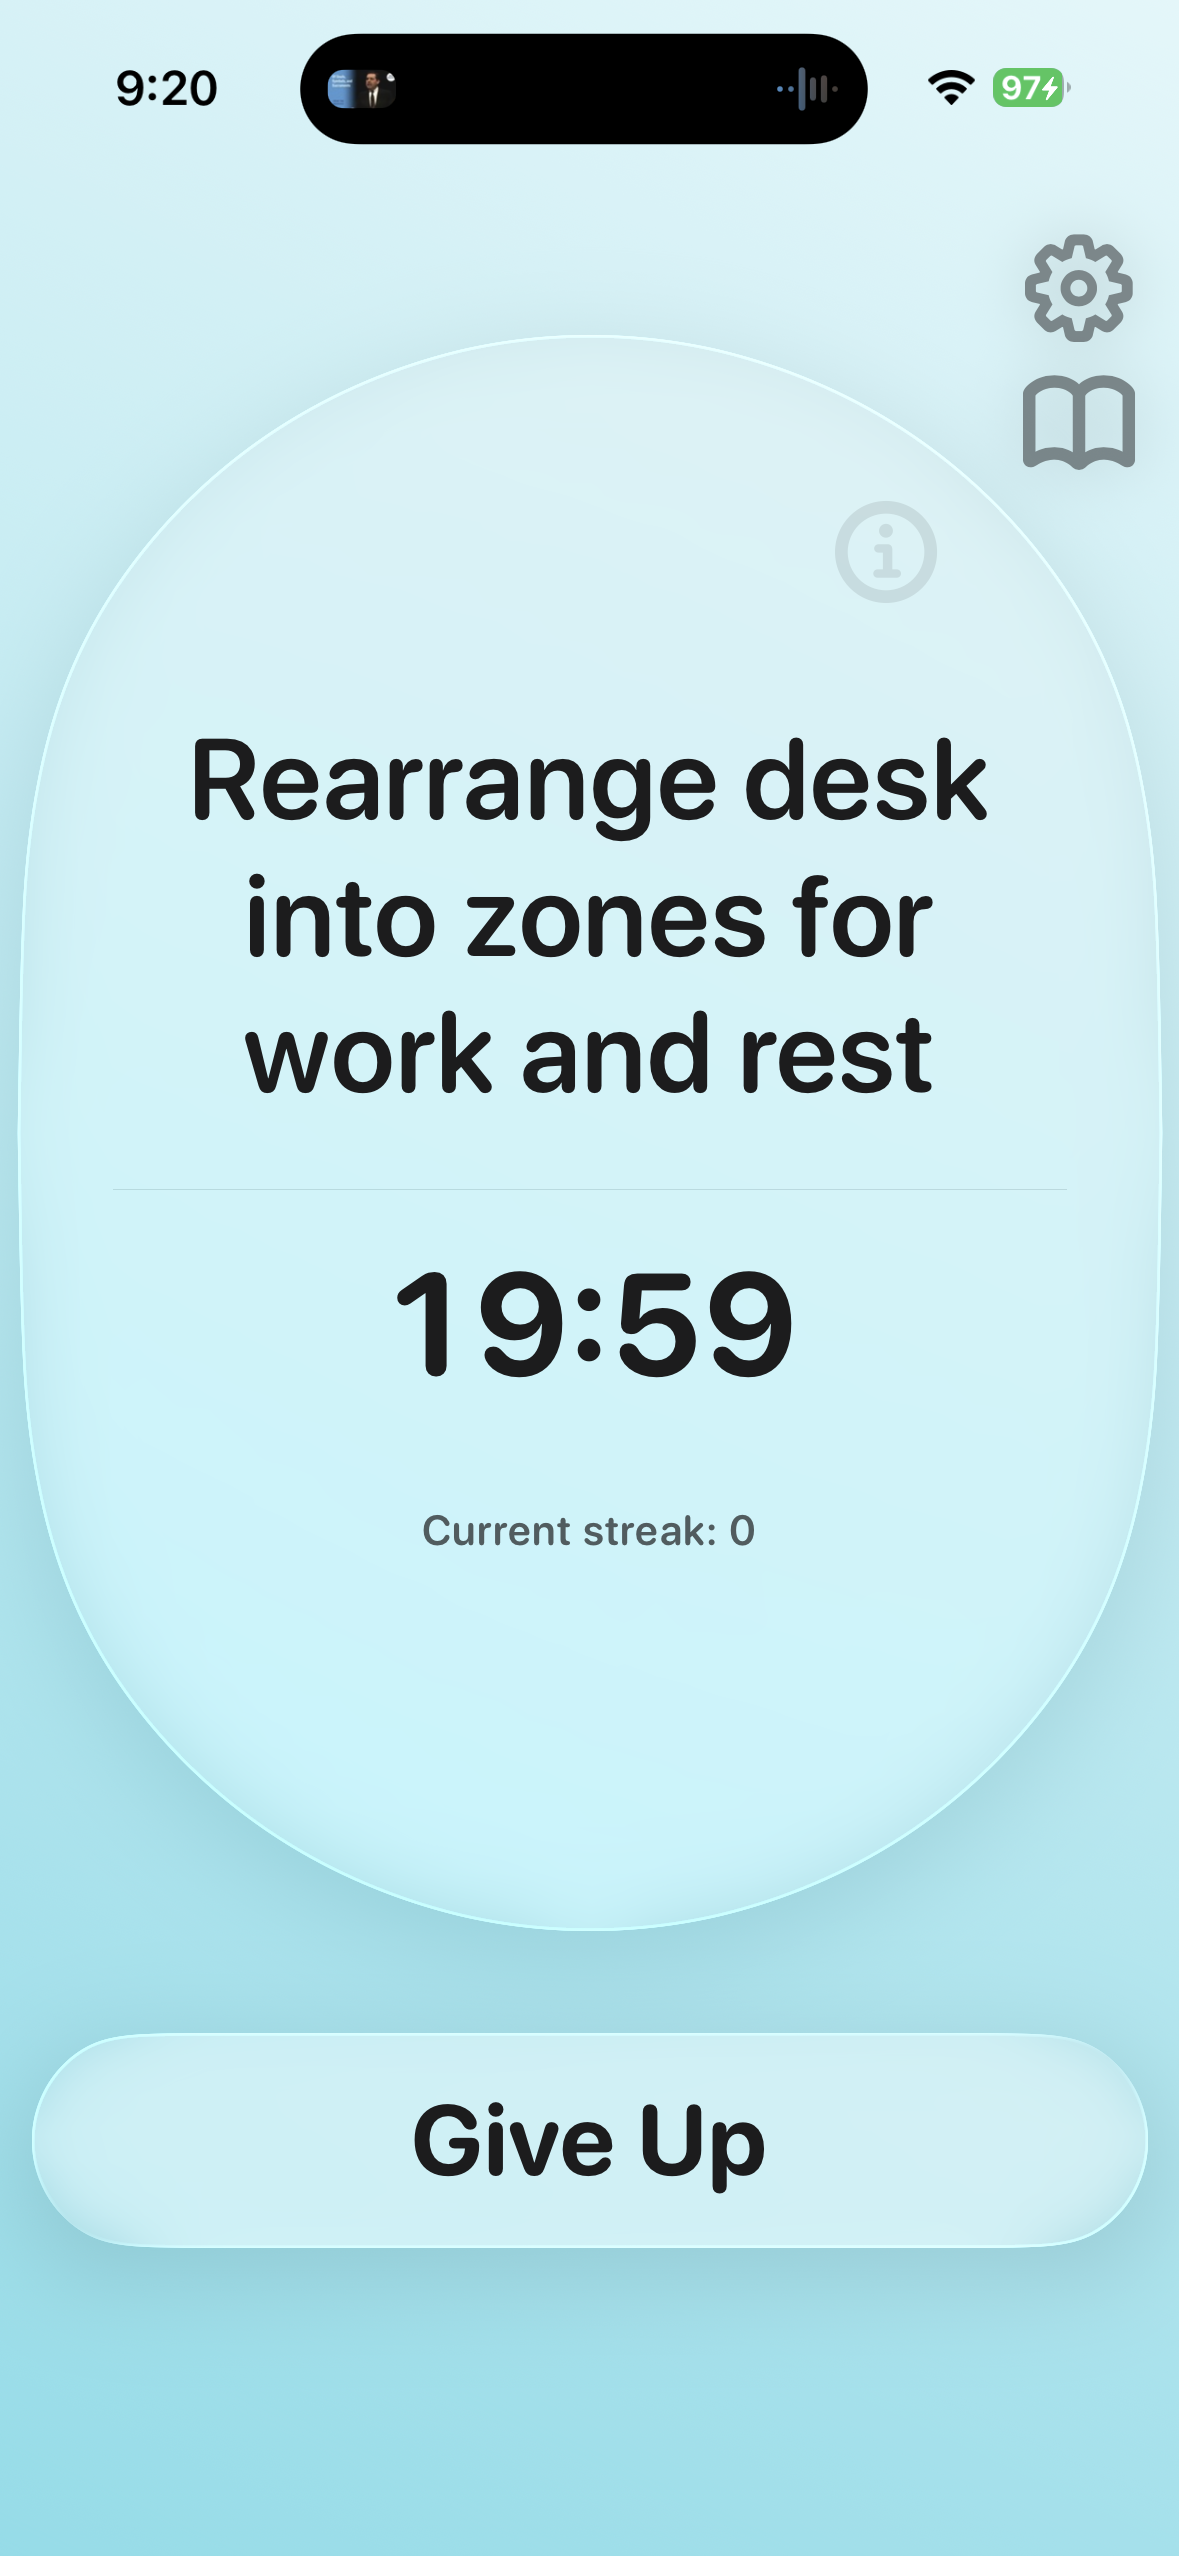
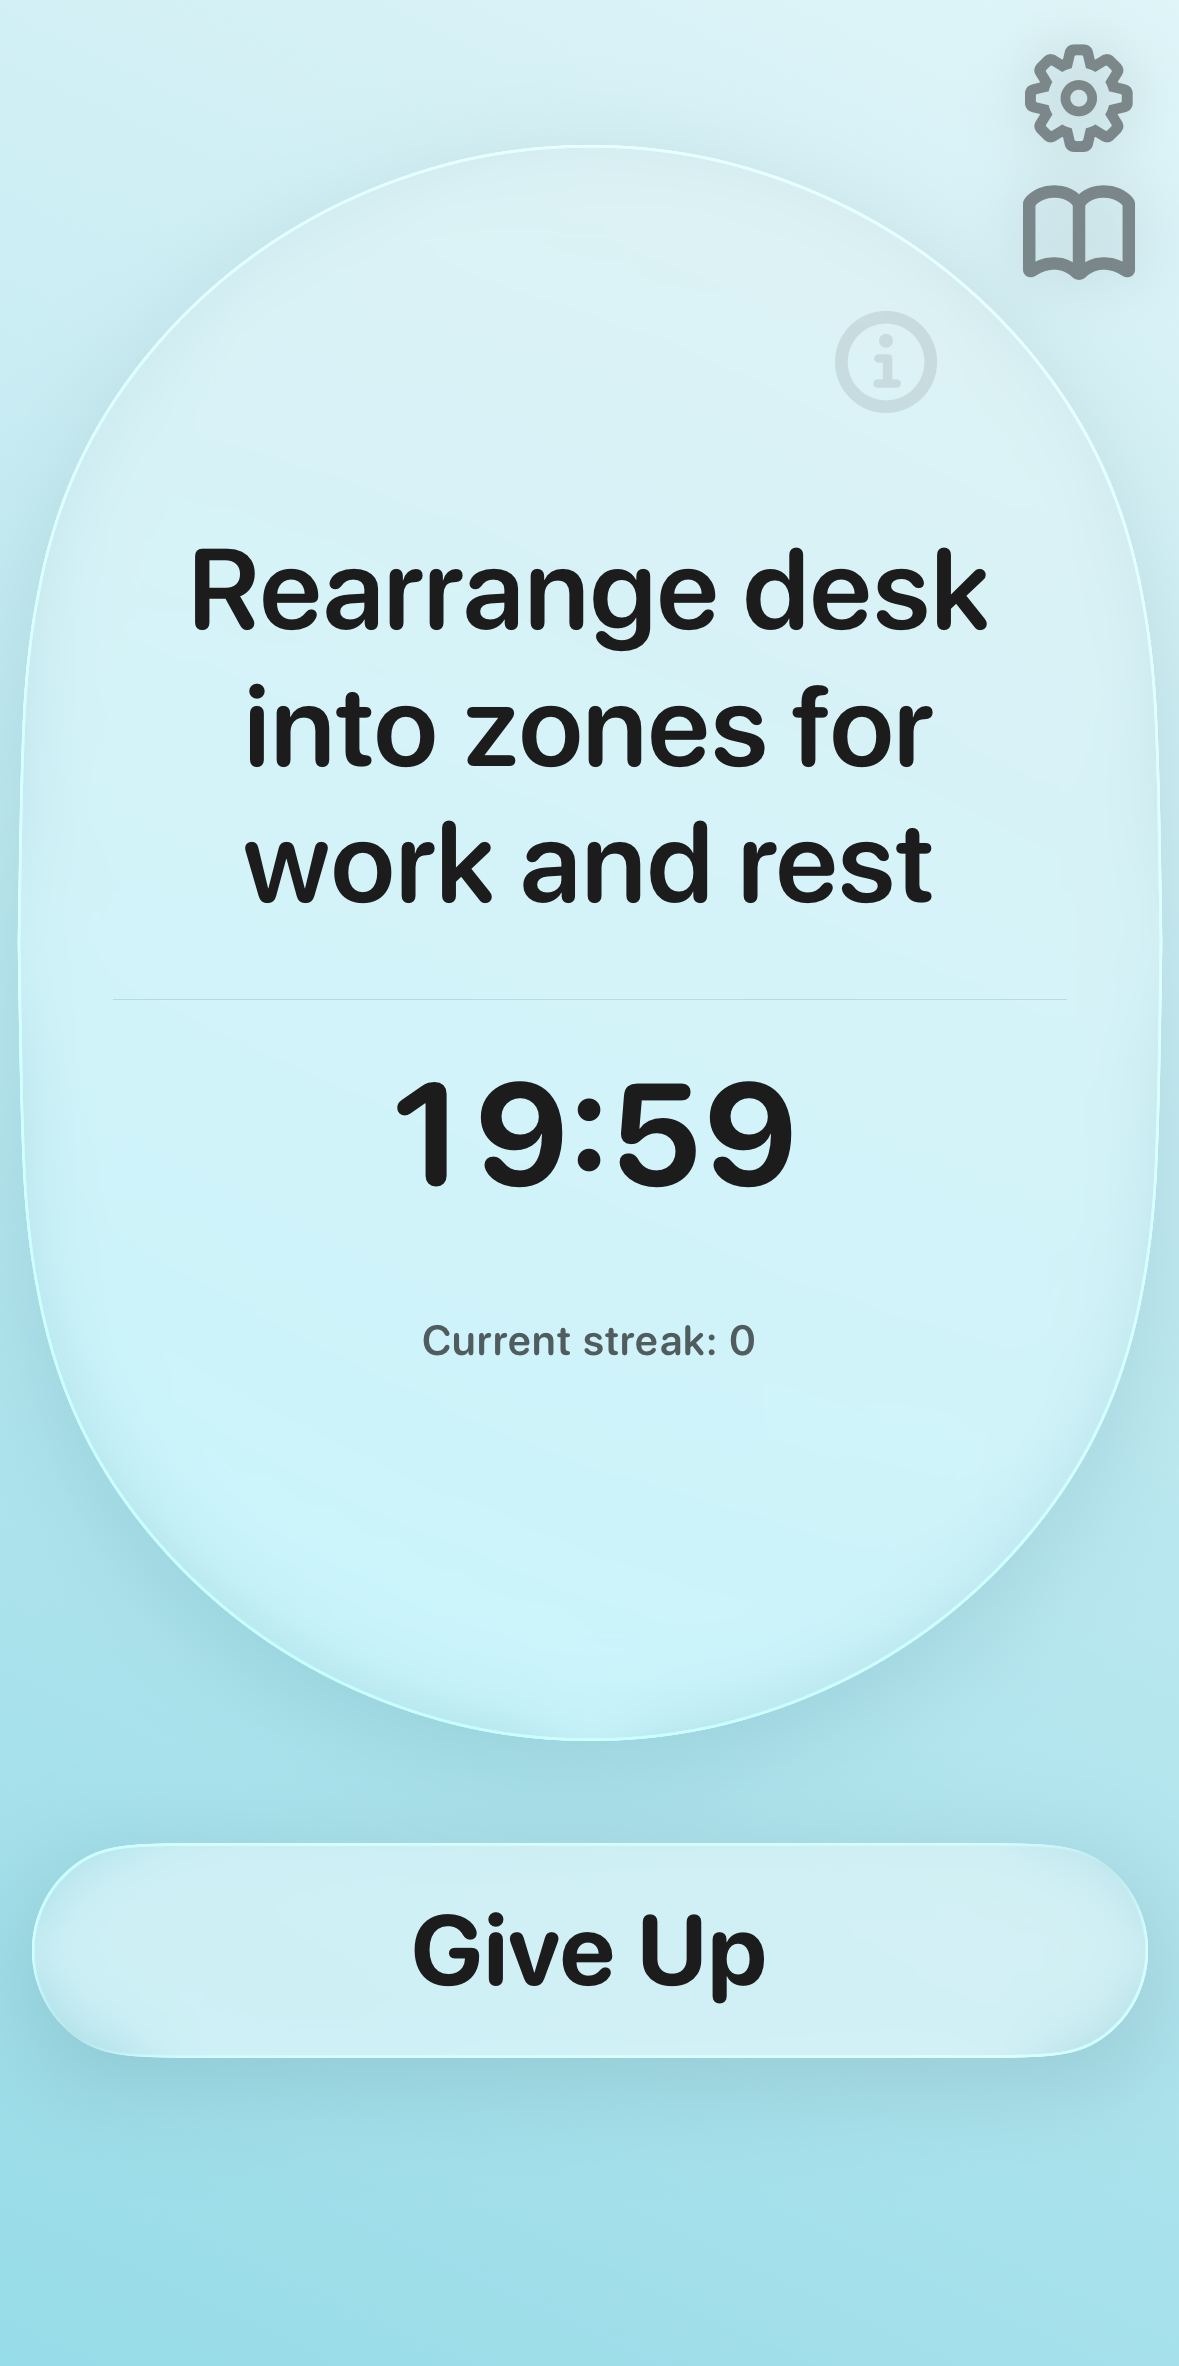
update

diff --git a/index.html b/index.html
@@ -91,7 +91,6 @@
 
         <div class="device-wrap">
           <div class="device-frame" aria-roledescription="carousel" aria-label="App screenshots">
-            <div class="device-notch" aria-hidden="true"></div>
             <div class="device-screen">
               <img
                 class="is-active"
@@ -99,7 +98,7 @@
                 src="ScreenShots/MainTheme1.PNG"
                 alt="Pivot home screen with Focus, Vent, and Move glass buttons on a soft teal gradient."
                 width="1179"
-                height="2556"
+                height="2366"
                 fetchpriority="high"
                 decoding="async"
                 aria-hidden="false"
@@ -109,7 +108,7 @@
                 src="ScreenShots/Focus.PNG"
                 alt="Focus mode showing an active timed session with the phone face-down to count progress."
                 width="1179"
-                height="2556"
+                height="2366"
                 decoding="async"
                 aria-hidden="true"
               />
@@ -118,7 +117,7 @@
                 src="ScreenShots/MainTheme2.PNG"
                 alt="Pivot home screen with another theme showing Focus, Vent, and Move."
                 width="1179"
-                height="2556"
+                height="2366"
                 decoding="async"
                 aria-hidden="true"
               />
@@ -127,7 +126,7 @@
                 src="ScreenShots/move.PNG"
                 alt="Move mode map with a walking route toward a nearby destination."
                 width="1179"
-                height="2556"
+                height="2366"
                 decoding="async"
                 aria-hidden="true"
               />
@@ -186,8 +185,8 @@
             <img
               src="ScreenShots/FocusTask.PNG"
               alt="Focus task card suggesting a real-world activity with duration and instructions."
-              width="1206"
-              height="2622"
+              width="1179"
+              height="2366"
               loading="lazy"
             />
           </figure>
@@ -208,8 +207,8 @@
             <img
               src="ScreenShots/VentAddToJournal.PNG"
               alt="Vent flow with option to add the session and reflection to the journal."
-              width="1206"
-              height="2622"
+              width="1179"
+              height="2366"
               loading="lazy"
             />
           </figure>
@@ -231,8 +230,8 @@
             <img
               src="ScreenShots/MoveJourney.PNG"
               alt="Move journey map showing route progress toward an orange destination marker."
-              width="1206"
-              height="2622"
+              width="1179"
+              height="2366"
               loading="lazy"
             />
           </figure>
@@ -252,8 +251,8 @@
               <img
                 src="ScreenShots/Journal.PNG"
                 alt="Journal list showing recent Focus, Vent, and Move entries."
-                width="1206"
-                height="2622"
+                width="1179"
+                height="2366"
                 loading="lazy"
               />
             </figure>
@@ -261,8 +260,8 @@
               <img
                 src="ScreenShots/JournalToday.PNG"
                 alt="Journal today view grouping entries for the current day."
-                width="1206"
-                height="2622"
+                width="1179"
+                height="2366"
                 loading="lazy"
               />
             </figure>

diff --git a/styles.css b/styles.css
@@ -359,24 +359,11 @@ h3 {
   border: 1px solid rgba(255, 255, 255, 0.65);
 }
 
-.device-notch {
-  position: absolute;
-  top: 18px;
-  left: 50%;
-  transform: translateX(-50%);
-  width: 38%;
-  height: 28px;
-  background: #0a0a0b;
-  border-radius: 20px;
-  z-index: 2;
-  pointer-events: none;
-}
-
 .device-screen {
   position: relative;
   border-radius: 32px;
   overflow: hidden;
-  aspect-ratio: 1179 / 2556;
+  aspect-ratio: 1179 / 2366;
   max-height: 620px;
   background: #000;
 }
